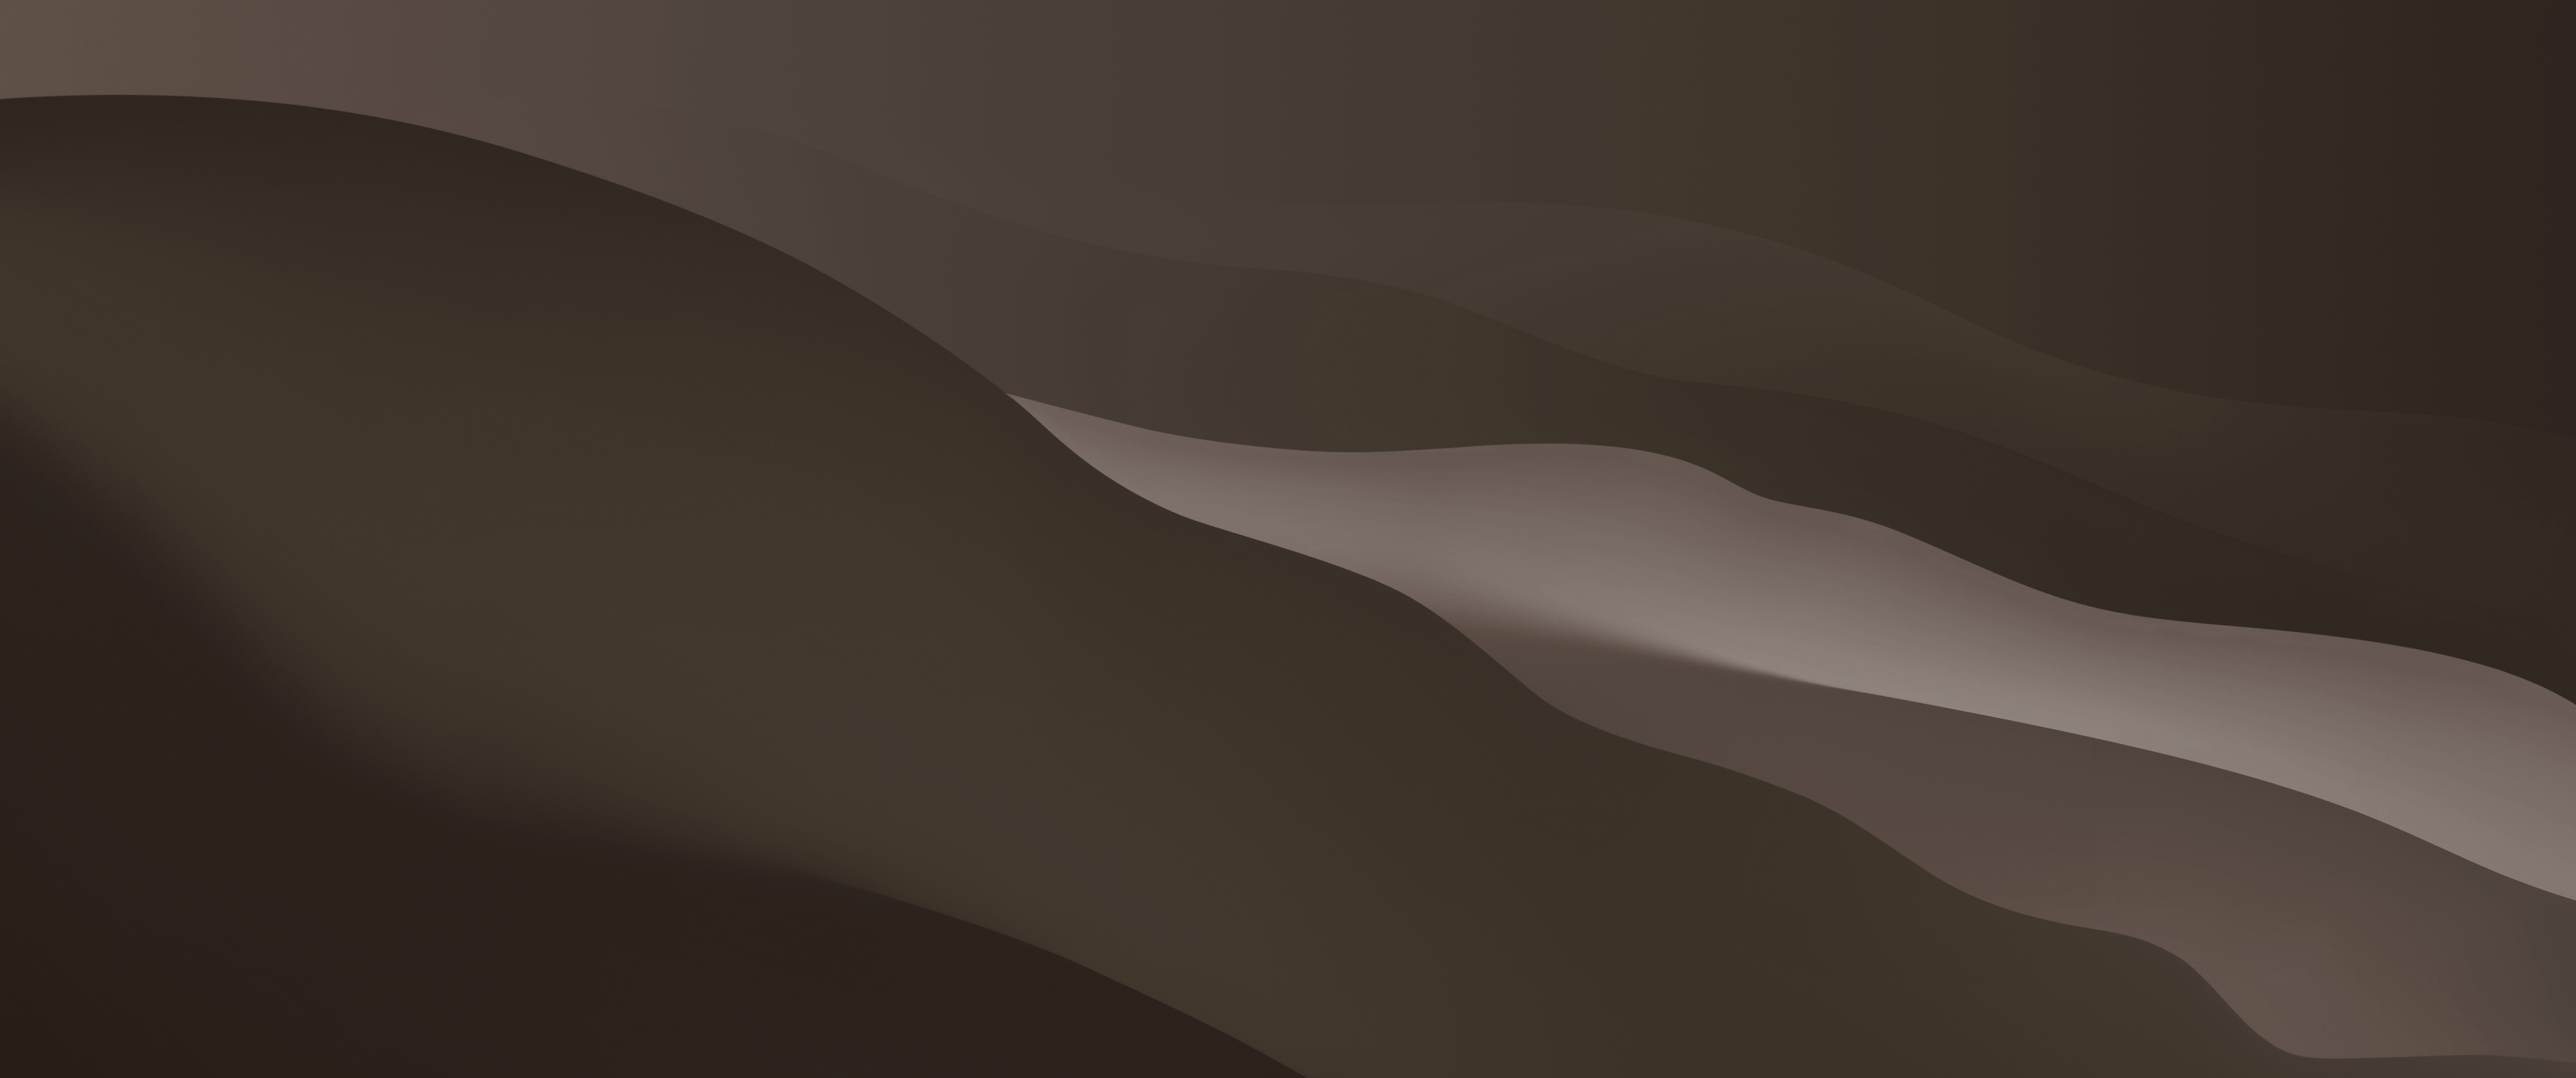
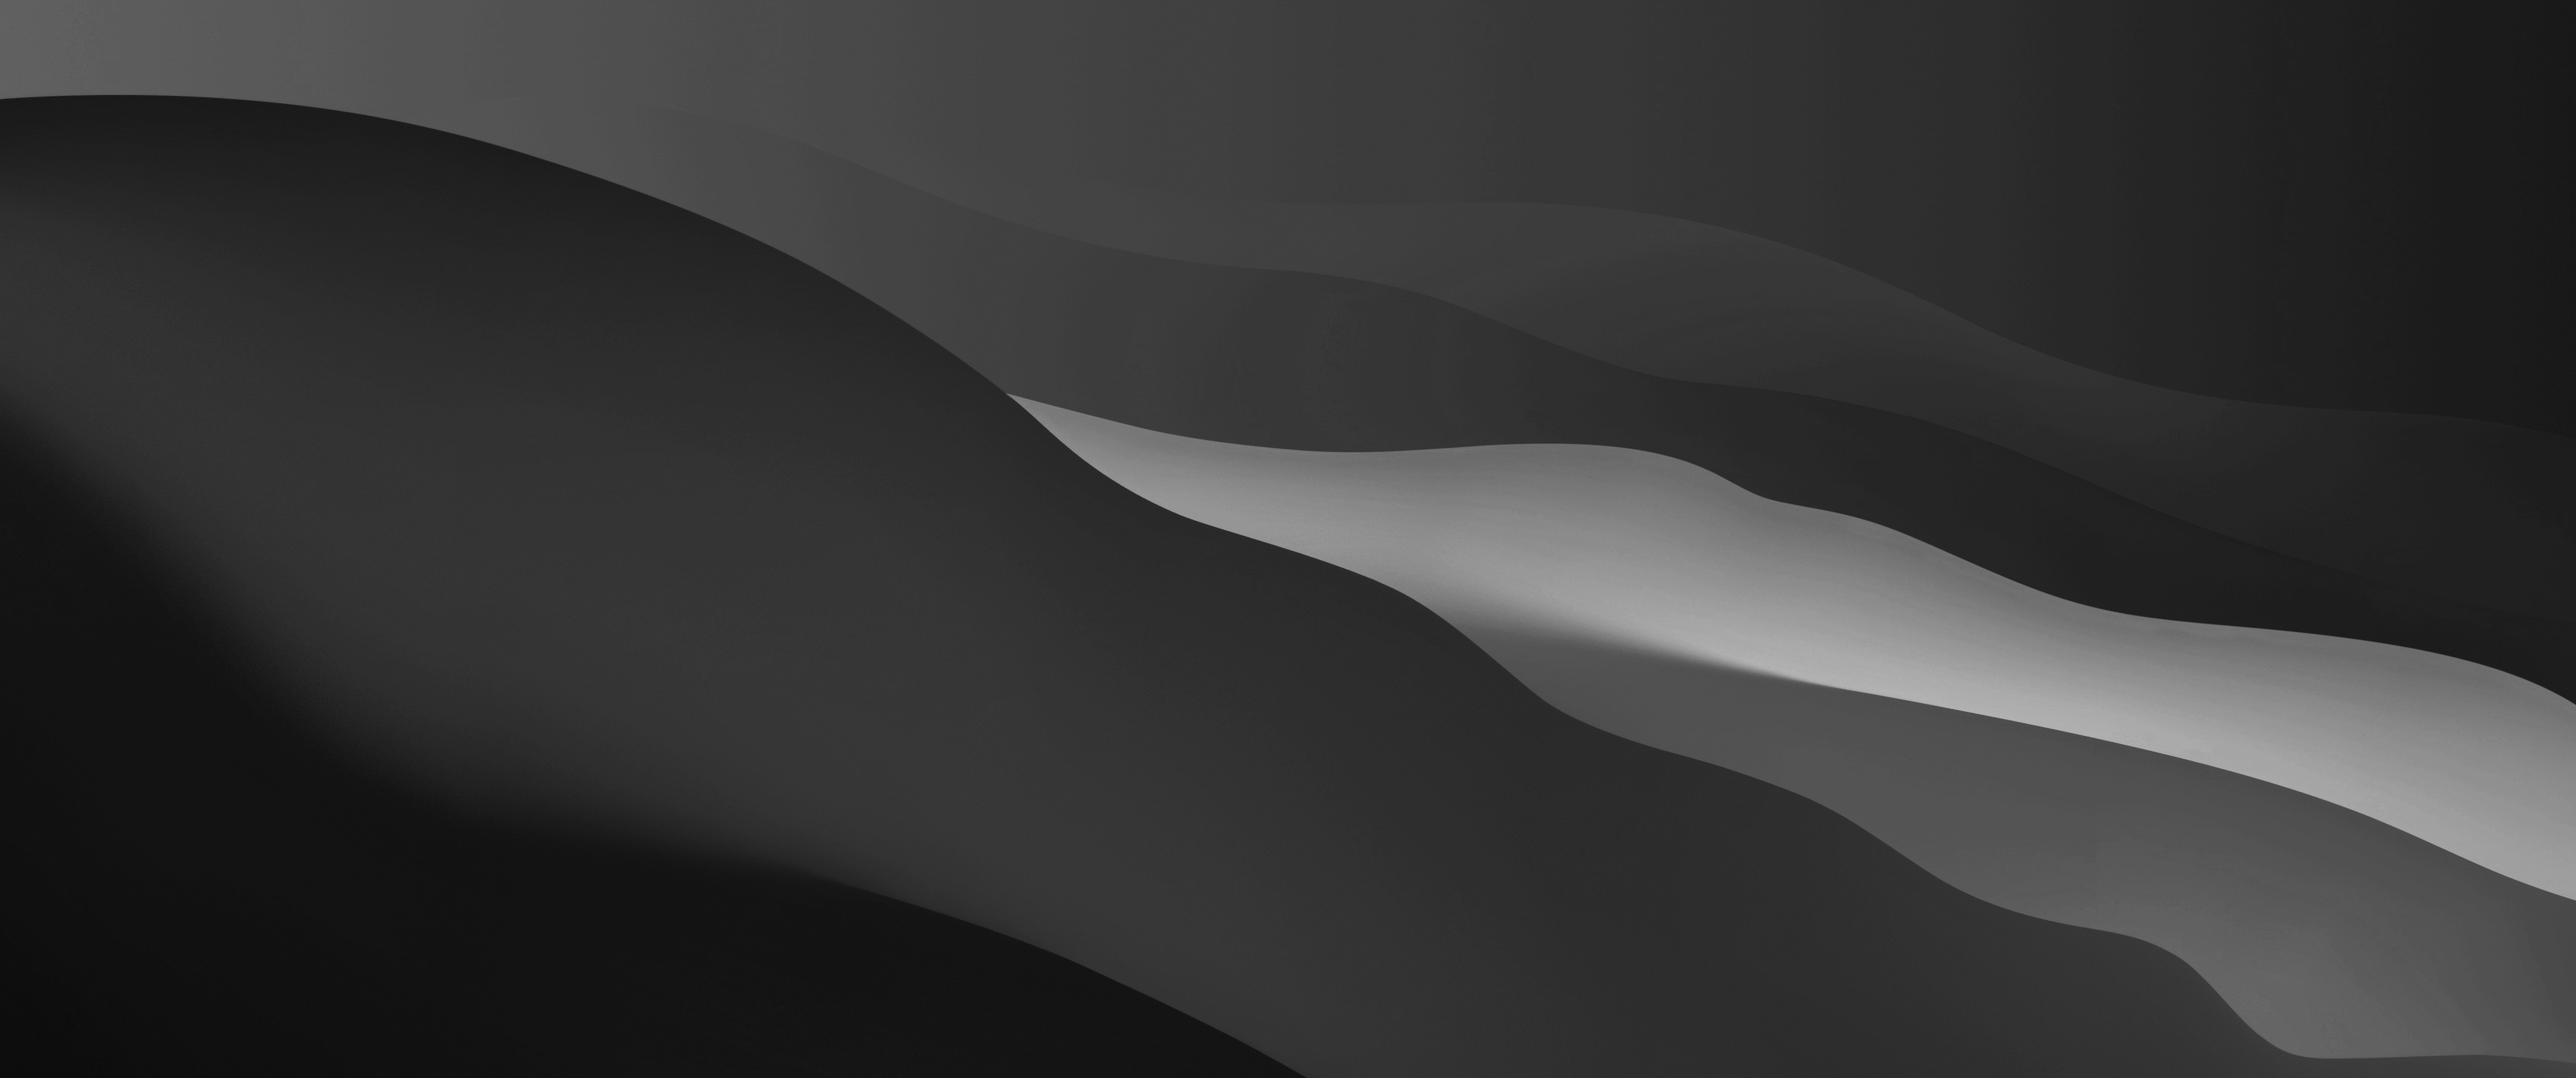
major changes to light/dark mode setup

diff --git a/about.html b/about.html
@@ -121,19 +121,20 @@
   }
 
   /* ---- Darkness mode ----
-     Background image sits on its own layer behind everything; darkness mode
-     fades it out so the solid #000000 body color shows. */
+     The mode is the same setting the home page saves ('darkness' in localStorage),
+     applied to <html> before first paint by the script in <head>. Light mode uses
+     background2-light.png; darkness mode uses background2.png. */
+  :root { --page-background: url('assets/background2-light.png'); }
+  html.darkness { --page-background: url('assets/background2.png'); }
+
   body::before {
     content: "";
     position: fixed;
     inset: 0;
-    background: url('assets/background2.png') center / cover no-repeat;
-    opacity: 1;
-    transition: opacity .5s ease;
+    background: var(--page-background) center / cover no-repeat;
     pointer-events: none;
     z-index: -1;
   }
-  html.darkness body::before { opacity: 0; }
 
   .dark-toggle {
     position: fixed;
@@ -164,10 +165,6 @@
 
   .dark-toggle:hover { transform: translateY(-50%) scale(1.05); opacity: 1; }
   .dark-toggle:focus-visible { outline: 1px solid rgba(255,255,255,.8); outline-offset: 5px; }
-
-  @media (prefers-reduced-motion: reduce) {
-    body::before { transition: none; }
-  }
 
   /* Main */
   main {
@@ -347,6 +344,15 @@
   .site-nav button:hover { transform: scale(1.05); opacity: 1; }
   .site-nav button:focus-visible { outline: 1px solid rgba(255,255,255,.8); outline-offset: 5px; }
 
+  /* Nav icons follow the mode: champagne "-light" icons in light mode (default),
+     original chrome icons in darkness mode. Both are in the DOM so the swap is instant. */
+  .site-nav img.icon-dark,
+  .home-bottom img.icon-dark { display: none; }
+  html.darkness .site-nav img.icon-dark,
+  html.darkness .home-bottom img.icon-dark { display: block; }
+  html.darkness .site-nav img.icon-light,
+  html.darkness .home-bottom img.icon-light { display: none; }
+
   /* Image lightbox opened by the cat icon */
   .lightbox {
     position: fixed;
@@ -393,15 +399,18 @@
 
   <nav class="site-nav" aria-label="Links">
     <a href="https://steamcommunity.com/id/J0AG/" target="_blank" rel="noopener" aria-label="Steam" title="Steam">
-      <img src="assets/steam.png" alt="">
+      <img class="icon-light" src="assets/steam-light.png" alt="">
+      <img class="icon-dark" src="assets/steam.png" alt="">
     </a>
 
     <button type="button" id="catBtn" aria-label="Open image" title="Cat">
-      <img src="assets/cat.png" alt="">
+      <img class="icon-light" src="assets/cat-light.png" alt="">
+      <img class="icon-dark" src="assets/cat.png" alt="">
     </button>
     
     <a href="https://music.apple.com/profile/joag" target="_blank" rel="noopener" aria-label="Music" title="Music">
-      <img src="assets/music.png" alt="">
+      <img class="icon-light" src="assets/music-light.png" alt="">
+      <img class="icon-dark" src="assets/music.png" alt="">
     </a>
 
   </nav>
@@ -447,7 +456,8 @@
       <img src="photos/Picture1.png" alt="CFD model resolution comparison" class="cfd-image">
 
     <a class="home-bottom" href="index.html" aria-label="Home" title="Home">
-      <img src="assets/home-chrome.png" alt="">
+      <img class="icon-light" src="assets/home-chrome-light.png" alt="">
+      <img class="icon-dark" src="assets/home-chrome.png" alt="">
     </a>
 
     </section>

diff --git a/index.html b/index.html
@@ -103,7 +103,7 @@
 
   .site-title {
     position: fixed; top: 2rem; left: 50%; transform: translate(-50%, -50%);
-    z-index: 21; color: #f0ece2; font-size: 1.6rem; font-weight: 600;
+    z-index: 21; color: var(--title-color); font-size: 1.6rem; font-weight: 600;
     letter-spacing: -0.01em; white-space: nowrap; text-align: center; pointer-events: none;
   }
 
@@ -128,21 +128,36 @@
   .site-nav a:hover { transform: scale(1.05); opacity: 1; }
   .site-nav a:focus-visible { outline: 1px solid rgba(255,255,255,.8); outline-offset: 5px; }
 
+  /* Info icon follows the mode: champagne "light" icon in light mode (default),
+     original chrome icon in darkness mode. Both are in the DOM so the swap is instant. */
+  .site-nav a img.info-icon-dark { display: none; }
+  html.darkness .site-nav a img.info-icon-dark { display: block; }
+  html.darkness .site-nav a img.info-icon-light { display: none; }
+
   /* ---- Darkness mode ----
-     The background image lives on its own layer BEHIND everything (z-index -1).
-     Darkness mode just fades that layer out, leaving the solid #000000 body
-     color showing. Photos, header and buttons are untouched. */
+     The background image switches between the light and dark versions.
+     Photos, header, and buttons remain otherwise unchanged. */
+
+  :root {
+    --page-background: url('assets/background_light.png');
+    --title-color: #4a2f24;
+  }
+
+  html.darkness {
+    --page-background: url('assets/background_dark.png');
+    --title-color: #f0ece2;
+  }
+
   body::before {
     content: "";
     position: fixed;
     inset: 0;
-    background: url('assets/background2.png') center / cover no-repeat;
+    background: var(--page-background) center / cover no-repeat;
     opacity: 1;
     transition: opacity .5s ease;
     pointer-events: none;
     z-index: -1;
   }
-  html.darkness body::before { opacity: 0; }
 
   .dark-toggle {
     position: fixed; top: 2.25rem; right: 1rem; transform: translateY(-50%);
@@ -333,7 +348,8 @@
 
   <nav class="site-nav" aria-label="Site navigation">
     <a href="about.html" aria-label="About me" title="About me">
-      <img src="assets/info-chrome.png" alt="">
+      <img class="info-icon-light" src="assets/info-chrome-light.png" alt="">
+      <img class="info-icon-dark" src="assets/info-chrome.png" alt="">
     </a>
   </nav>
 
